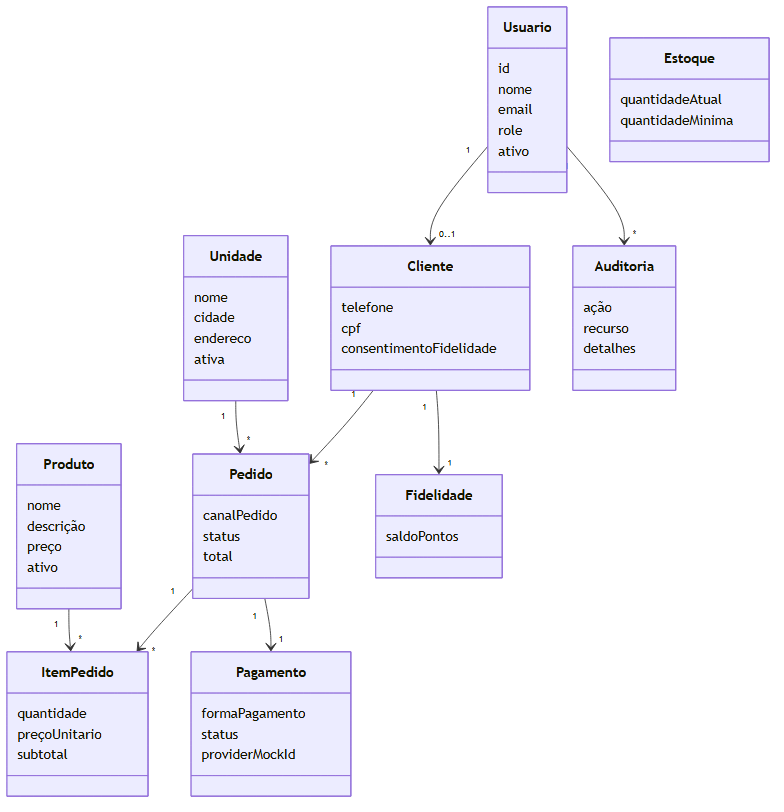
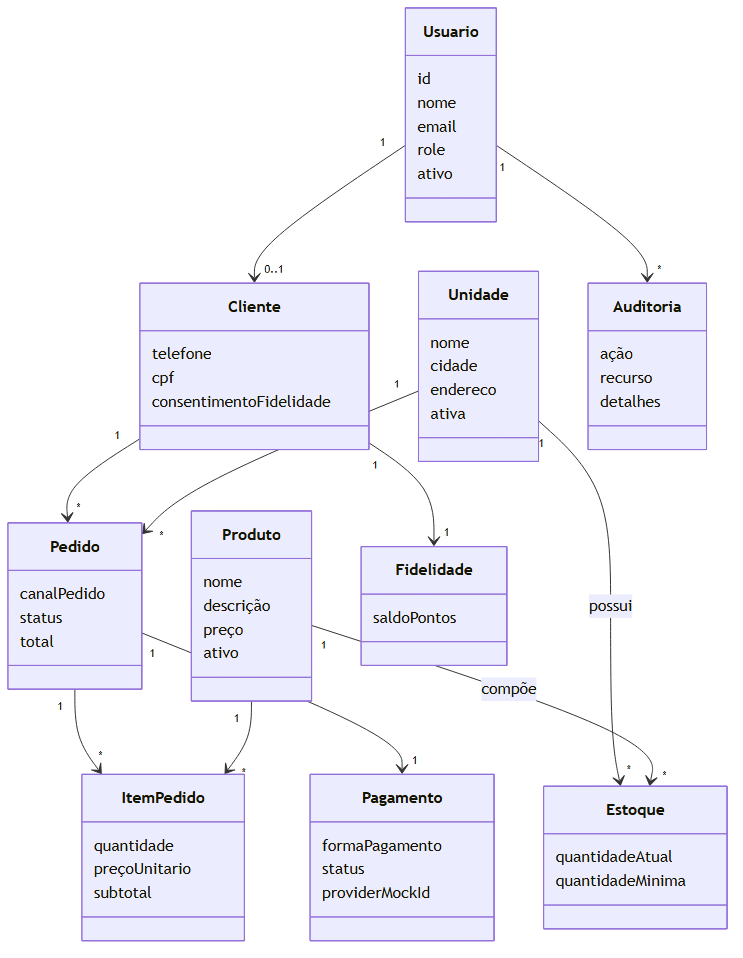
ajustando diagramas do README

diff --git a/README.md b/README.md
@@ -29,7 +29,9 @@ O projeto organiza cada área em camadas:
 - `prisma`: acesso ao banco via Prisma.
 - `common`: guards, decorators e filtro global de erro.
 
-![Diagrama de classes](docs/diagramas/renderizados/classes.svg)
+<p align="center">
+  <img src="docs/diagramas/renderizados/classes.svg" alt="Diagrama de classes" width="720">
+</p>
 
 ## Requisitos funcionais
 
@@ -127,7 +129,9 @@ http://localhost:3000/api/docs
 
 ## Fluxo principal para testar
 
-![Fluxo de pedido e pagamento](docs/diagramas/renderizados/sequencia-pedido-pagamento.svg)
+<p align="center">
+  <img src="docs/diagramas/renderizados/sequencia-pedido-pagamento.svg" alt="Fluxo de pedido e pagamento" width="760">
+</p>
 
 1. Fazer login em `POST /auth/login` com `[email redacted]`.
 2. Criar pedido em `POST /pedidos` com `canalPedido`, `unidadeId`, `formaPagamento` e itens.
@@ -148,7 +152,9 @@ Importe os dois no Postman, rode o login e use o token retornado na variável `a
 
 ## Documentação
 
-![DER](docs/diagramas/renderizados/der.svg)
+<p align="center">
+  <img src="docs/diagramas/renderizados/der.svg" alt="Diagrama entidade-relacionamento" width="820">
+</p>
 
 - Documentação técnica: `docs/`.
 - Endpoints: `docs/endpoints.md`.